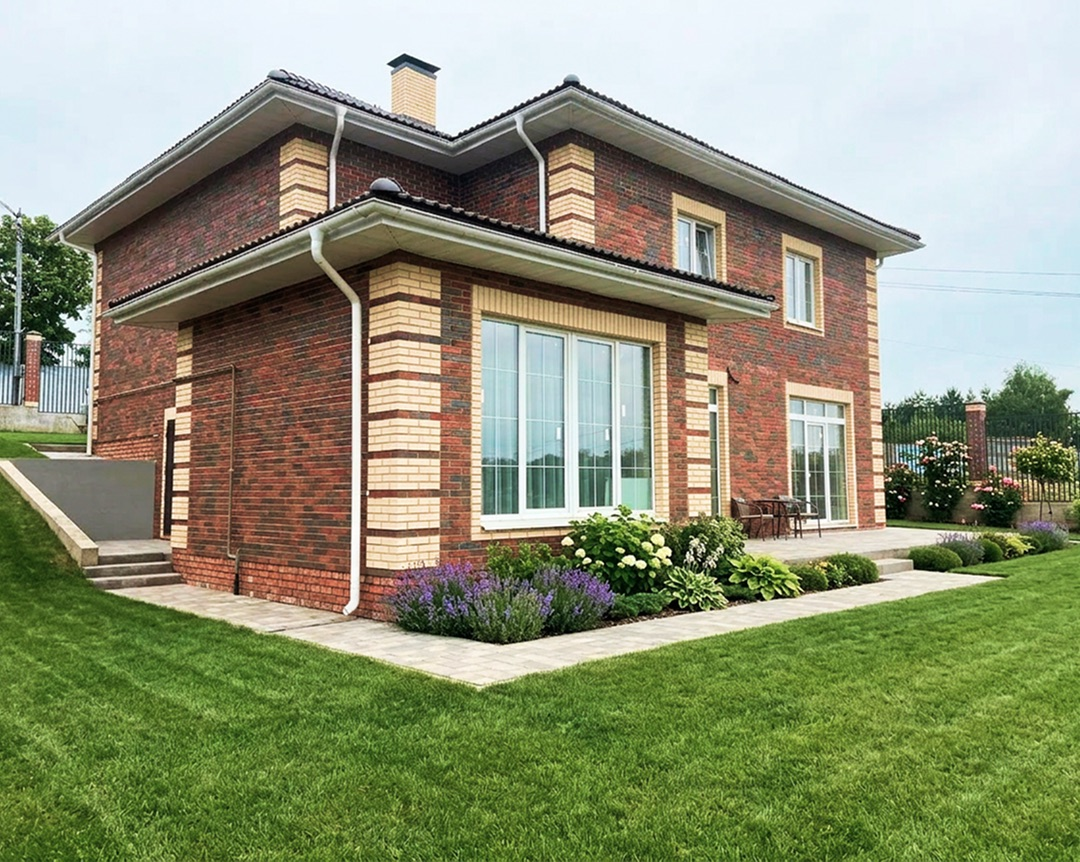
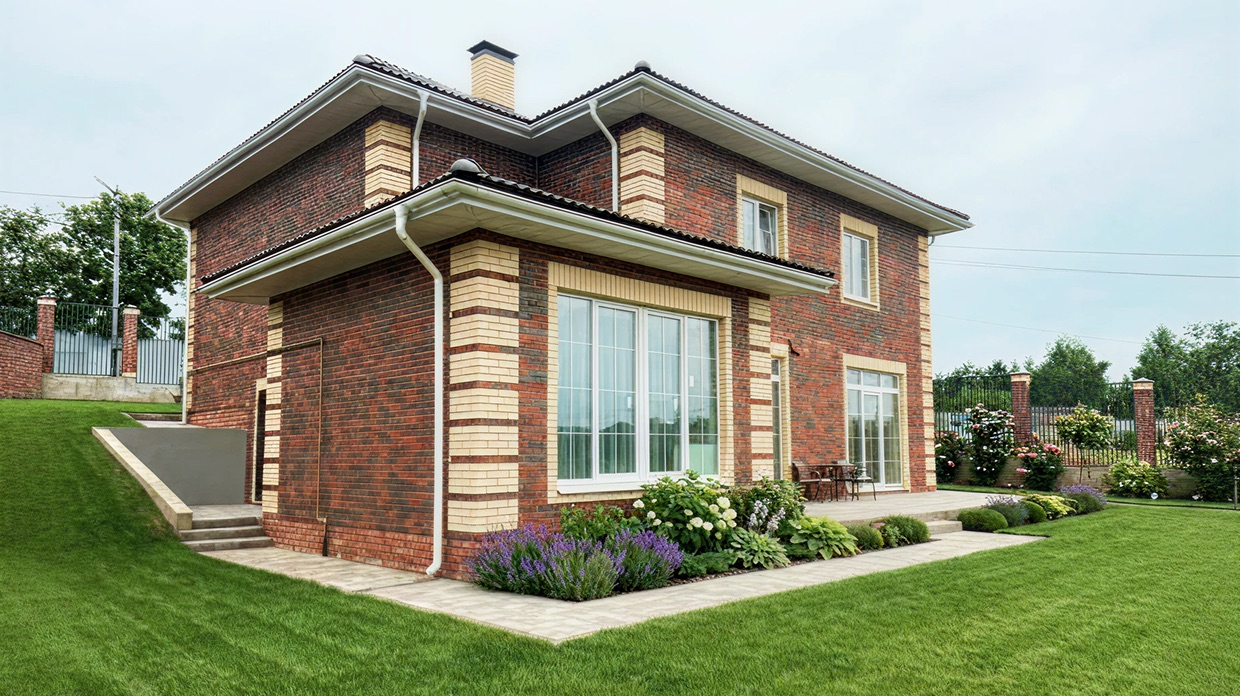
Update reviews and project images

diff --git a/data/reviews.ts b/data/reviews.ts
@@ -21,8 +21,8 @@ export const reviews: ReviewData[] = [
     },
     {
         id: 2,
-        name: "Дмитрий",
-        location: "Тверская область",
+        name: "Денис и Евгения",
+        location: "Московская область",
         image: "/reviews/dmitry.png",
         rotate: "-0.5deg",
         paragraphs: [
@@ -32,8 +32,8 @@ export const reviews: ReviewData[] = [
     },
     {
         id: 3,
-        name: "Светлана и Игорь",
-        location: "Ленинградская область",
+        name: "Даниил и Елена",
+        location: "Московская область",
         image: "/reviews/aleksey-maria.png",
         rotate: "0.5deg",
         paragraphs: [